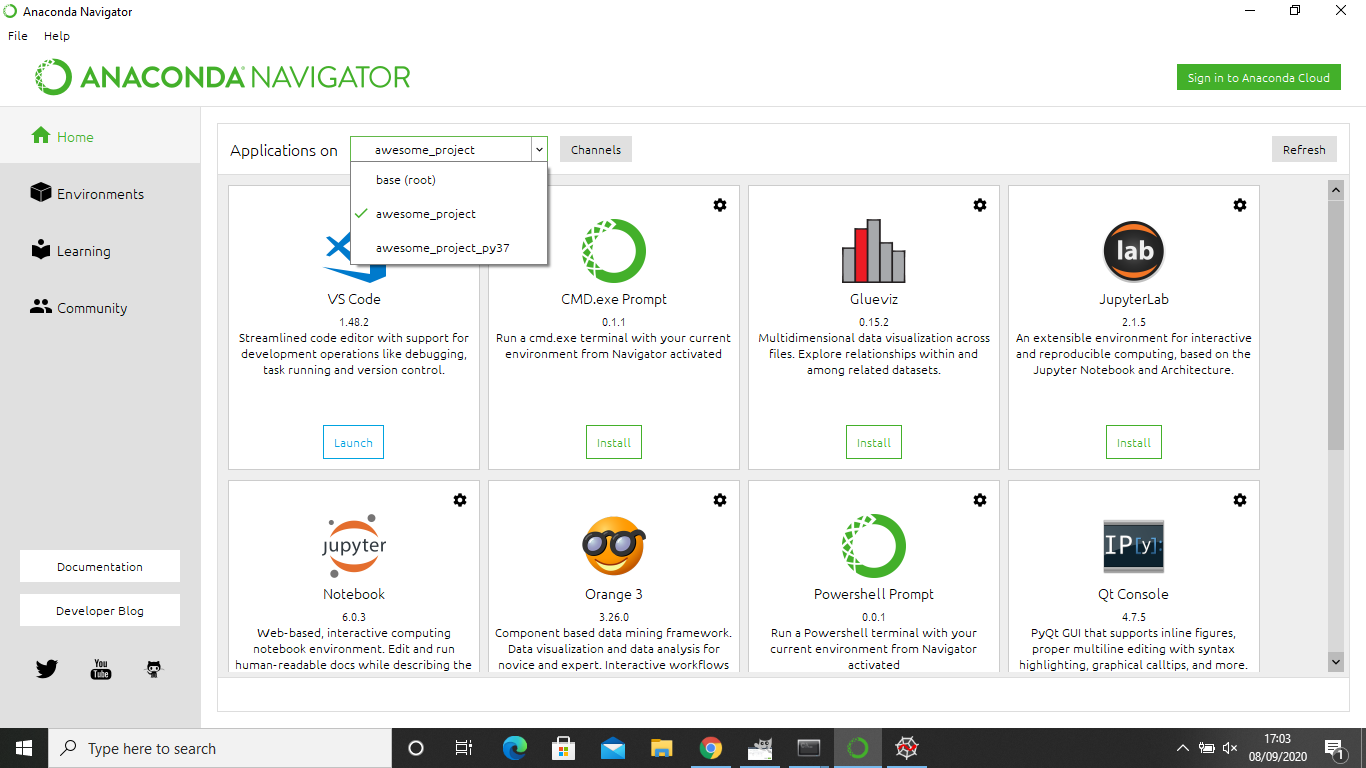
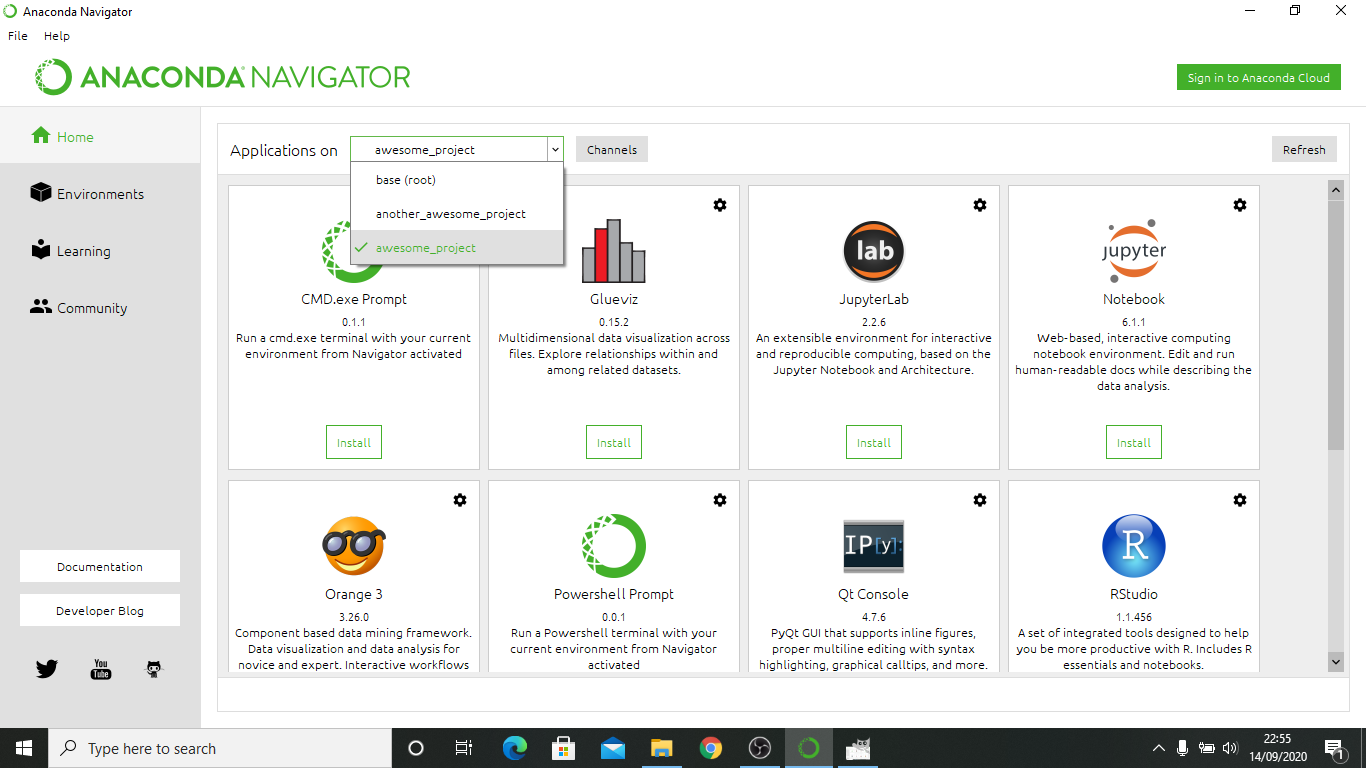
Some minor fixes

diff --git a/docs/demo-python-terminal.md b/docs/demo-python-terminal.md
@@ -8,7 +8,7 @@ any Python commands. The terminal is useful for quick calculations and prototypi
 There are two types of Python terminal sessions: a *regular* session and an enhanced interactive
 session called IPython. Within a terminal window (e.g., a Powershell terminal on Windows, or a
 terminal session within _VS Code_) you enter a regular Python terminal session by typing `python`
-and hitting return ++return++. You should see something like:
+and hitting ++return++. You should see something like:
 
 ```python
 Python 3.7.2 (default, Dec 29 2018, 06:19:36) 
@@ -26,14 +26,13 @@ commands onto. You can type commands in, e.g.,
 5
 ```
 
-To quit the Python session and return to the regular terminal type `quit()` and hit return
-++return++.
+To quit the Python session and return to the regular terminal type `quit()` and hit ++return++.
 
 ## IPython terminal
 
 Rather than the standard Python terminal, it is recommended to instead use the enhanced interactive
 terminal, [IPython](https://ipython.org/), which offers more features for ease of use. IPython is
-started by typing `ipython` and hitting return ++return++. Now you should see something like:
+started by typing `ipython` and hitting ++return++. Now you should see something like:
 
 ```ipython
 Python 3.7.2 (default, Dec 29 2018, 06:19:36) 
@@ -43,7 +42,8 @@ IPython 7.2.0 -- An enhanced Interactive Python. Type '?' for help.
 In [1]: 
 ```
 
-where the @(command prompt) (`In [1]:`) looks slightly different.
+where the @(command prompt) (`In [1]:`) looks slightly different. In is sometimes called an input
+"cell".
 
 In IPython you can do all the things of a standard Python terminal session:
 
@@ -152,10 +152,10 @@ print(x)
 
 # trigonometry (inputs are in radians)
 x = math.sin(2.3)
-print(x)                                                                           
+print(x)
 0.7457052121767203
 
-# use the constant pi from within math 
+# use the constant pi from within math
 y = math.cos(math.pi)
 print(y)
 -1.0

diff --git a/docs/demo-data-types.md b/docs/demo-data-types.md
@@ -35,7 +35,7 @@ the type of a variable.
 
 !!! note
     Everything in Python is an @(object) (hence *object oriented programming*, or OOP). In OOP
-    an object is a thing that contain data in the form of variables and/or functions to act on that
+    an object is a thing that contains data in the form of variables and/or functions to act on that
     data. All variables are objects and therefore the @(type) refers to the "type" of object.
     "Type" is sometimes used interchangeably with "@(class)", where a class defines a type.
 
@@ -43,7 +43,7 @@ The main basic data types (in Python and many languages) are:
 
 * `int`: represents an positive or negative integer number;
 * `float`: represents a "@(floating point number)", i.e., a non-integer number;
-* `str`: represents some alphanumeric text, know as a "@(string);
+* `str`: represents some alphanumeric text, know as a "@(string)";
 * `bool`: represents a @(boolean) value, i.e., "True" or "False".
 
 ```python
@@ -153,7 +153,7 @@ print(x)
 34
 ```
 
-You can place an object's string representation into another strings using the
+You can place an object's string representation into another string using the
 [`format()`](https://www.w3schools.com/python/ref_string_format.asp) method. For example:
 
 ```python

diff --git a/docs/demo-vs-code.md b/docs/demo-vs-code.md
@@ -3,7 +3,7 @@
 [Virtual Studio (VS) Code](https://code.visualstudio.com/) is a text editor produced by Microsoft.
 Many other very good text editors are available! It can be used for writing and edited any plain
 text files, and therefore is mostly used for writing code. The main useful features for code editing are
-@(syntax highlighting) and @(code linting).
+@(syntax highlighting) and code @(linting).
 
 ## Installing VS Code
 

diff --git a/docs/demo-anaconda.md b/docs/demo-anaconda.md
@@ -192,7 +192,7 @@ line) in a @(terminal) are given below:
     but you can specify a different Python version using the `python` command, e.g.,:
 
     ```bash
-    conda create -n awesome_project_py37 python=3.7
+    conda create -n another_awesome_project python=3.7
     ```
 
     <asciinema-player src="condacreate.cast" cols="82" rows="23" autoplay="true"></asciinema-player>
